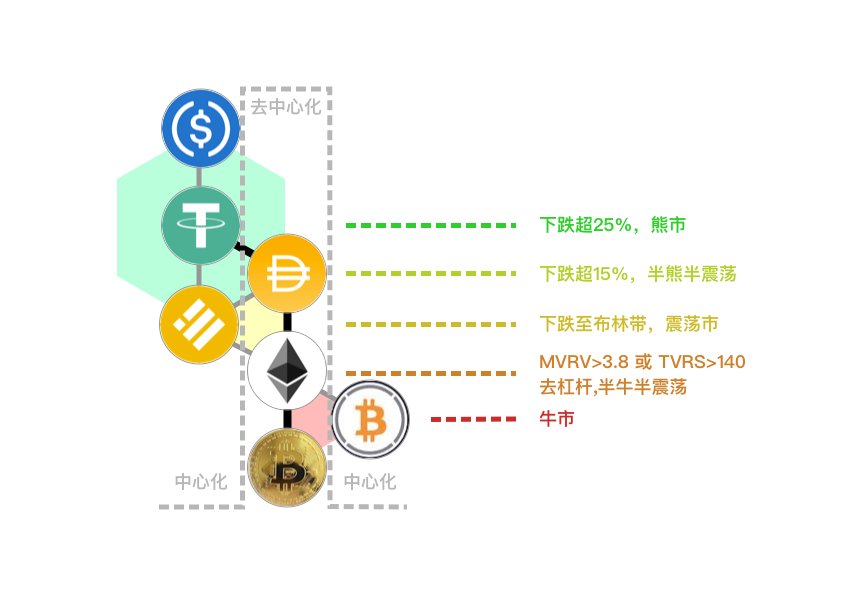
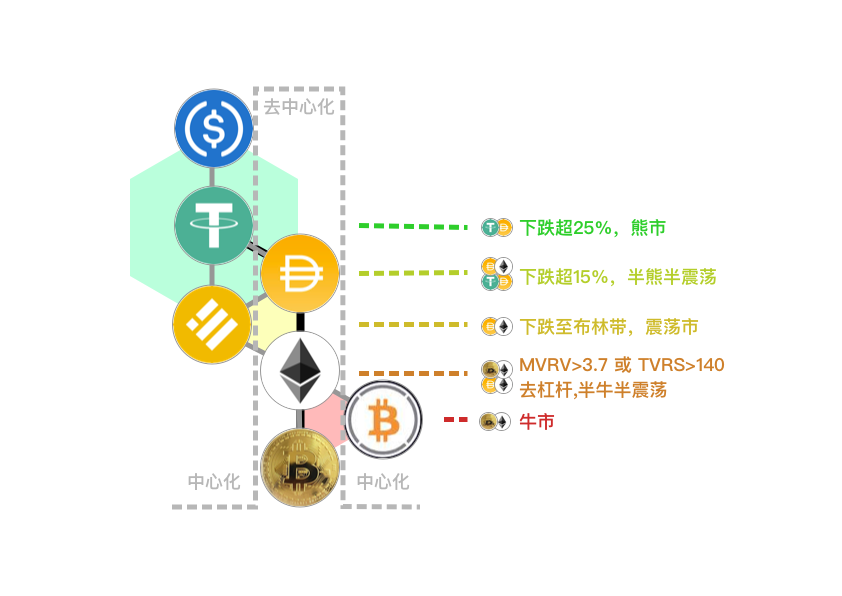
GitBook: [master] one page and 6 assets modified

Changed region(s): [[0.1235, 0.151, 0.8955, 0.8758], [0.4632, 0.8456, 0.4941, 0.8758]]

diff --git a/README.md b/README.md
@@ -18,9 +18,12 @@ NOTE: **This project is in beta. Use at your own risk.**
 
 ## 比特币指标
 
+![](.gitbook/assets/mvrv.png)
+
 * [**MVRV**](https://charts.woobull.com/bitcoin-mvrv-ratio/) **或** [**MVRV**](https://www.blockchain.com/charts/mvrv)\*\*\*\*
 
-  \*\*\*\*[**MVRV**](https://medium.com/@kenoshaking/bitcoin-market-value-to-realized-value-mvrv-ratio-3ebc914dbaee)**：3.7**（表示高估）和 **1**（表示低估）
+  \*\*\*\*[**MVRV**](https://medium.com/@kenoshaking/bitcoin-market-value-to-realized-value-mvrv-ratio-3ebc914dbaee)**：3.7**（表示高估）和 **1**（表示低估）  
+  推荐仓位计算方式：
 
 * [**NVT**](https://charts.woobull.com/bitcoin-nvt-ratio/) **&** [**NVTS**](https://charts.woobull.com/bitcoin-nvt-signal/) **或** [**NVT**](https://www.blockchain.com/charts/nvt) **&** [**NVTS**](https://www.blockchain.com/charts/nvts) ****[**NVT**](https://woobull.com/introducing-nvt-ratio-bitcoins-pe-ratio-use-it-to-detect-bubbles/#fnref2)**：90**（表示高估）和 **40**（表示低估） **如果价格小幅下跌后，NVT依然&gt;90，说明是泡沫，应该立即离场。** [**NVTS**](https://woobull.com/nvt-signal-a-new-trading-indicator-to-pick-tops-and-bottoms/)**：150**（表示高估）和 **45**（表示低估）
 * \*\*\*\*[**TradingView**](https://www.tradingview.com/chart/ooNfs1M1/) **下跌至第二条布林线离场**
@@ -33,7 +36,7 @@ NOTE: **This project is in beta. Use at your own risk.**
 
 {% tabs %}
 {% tab title="法币OTC/C2C交易" %}
-![](.gitbook/assets/cefi.png)
+![](.gitbook/assets/defi.png)
 
 * [**比特派钱包**](https://bitpie.com/)（**推荐**）
 
@@ -62,6 +65,8 @@ NOTE: **This project is in beta. Use at your own risk.**
 
 {% tab title="币安流动性挖矿" %}
 ![](.gitbook/assets/binance-lp.png)
+
+![](.gitbook/assets/mvrv.png)
 {% endtab %}
 {% endtabs %}
 
@@ -71,7 +76,7 @@ NOTE: **This project is in beta. Use at your own risk.**
 {% tab title="DeFi" %}
 \*\*\*\*[**DeFi Pulse Index \(DPI\)** ](https://info.uniswap.org/token/0x1494ca1f11d487c2bbe4543e90080aeba4ba3c2b)\*\*\*\*
 
-![](.gitbook/assets/defi.png)
+![](.gitbook/assets/defi%20%281%29.png)
 
 | 了解 DeFi |
 | :---: |
